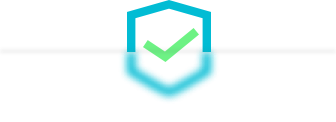
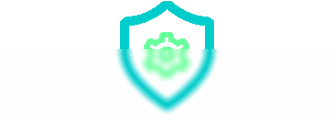
- [关联] #[1603633844551685]告警中心、灾切、架构图、系统配置模块图标修改 http://192.168.0.96:8090/demo/rdm.html#/story-detail/939050947543040/939050947543042/1603633844551685

Changed region(s): [[0.3274, 0.0, 0.6548, 0.95]]

diff --git a/src/views/pages/index/navigation/navigation.vue b/src/views/pages/index/navigation/navigation.vue
@@ -81,7 +81,7 @@ export default {
       text-align: center;
       cursor: pointer;
       position: relative;
-      .without-background('framework');
+      .without-background('module');
 
       &.background {
         .with-background(@module) {
@@ -97,6 +97,9 @@ export default {
           // .module-desc {
           //   color: @dark-text;
           // }
+        }
+        &-module {
+           .without-background('module');
         }
 
         &-dashboard {
@@ -136,6 +139,21 @@ export default {
         }
         &-rdm {
           .without-background('rdm'); // 研发管理
+        }
+        &-dr {
+          .without-background('dr'); // 灾切
+        }
+        &-diagram {
+          .without-background('diagram'); // 架构图
+        }
+        &-alert {
+          .without-background('alert');
+        }
+        &-codehub {
+          .without-background('codehub'); // 代码中心
+        }
+        &-informant {
+          .without-background('informant'); // 故障诊断
         }
       }
 
